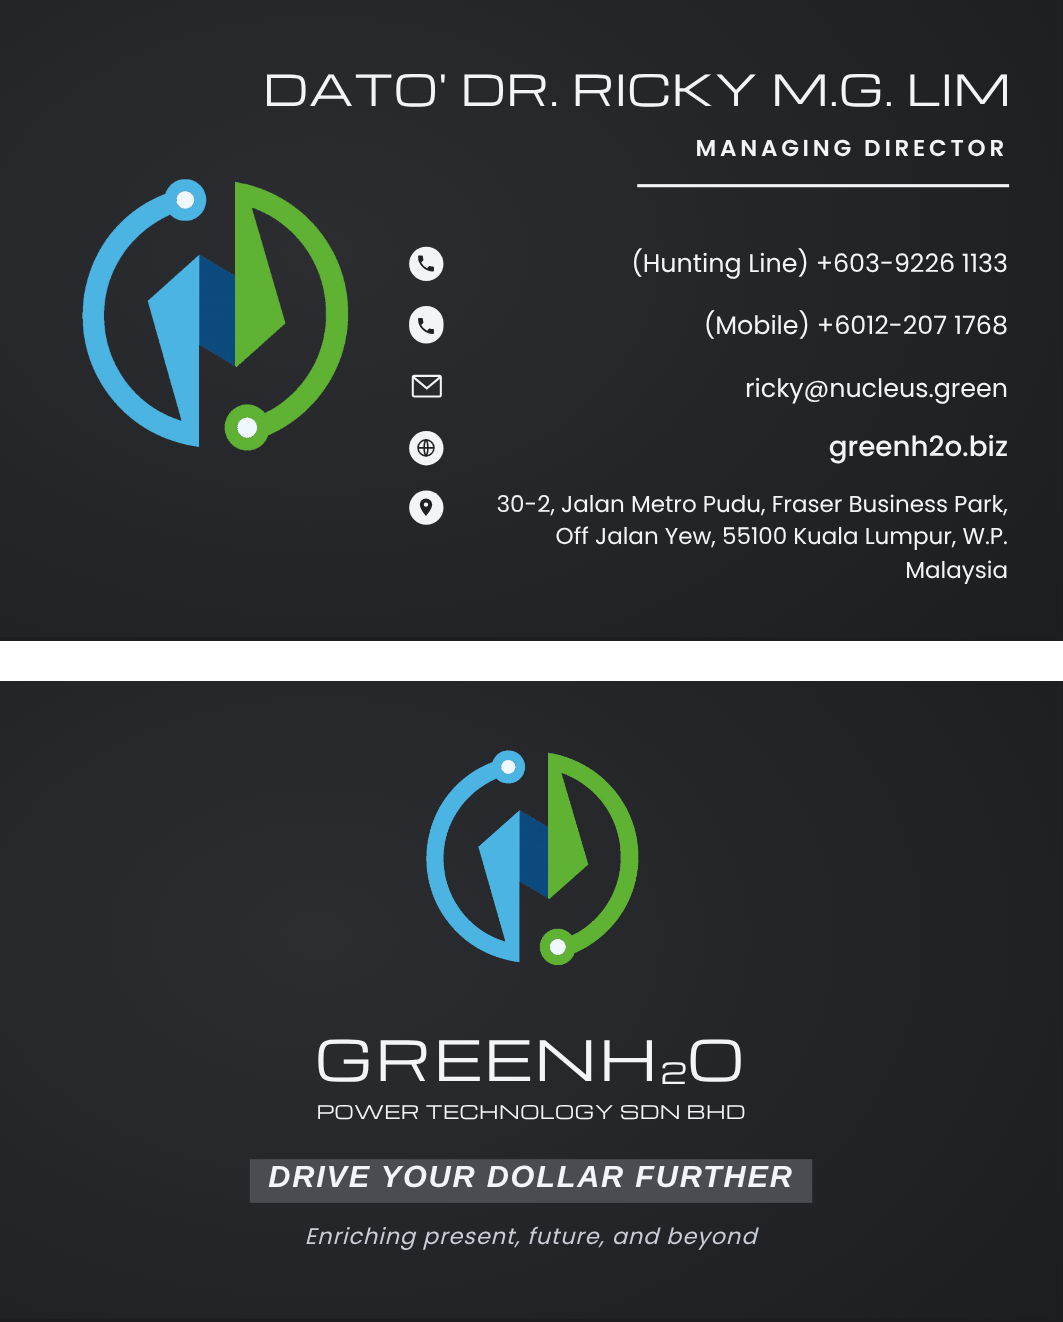
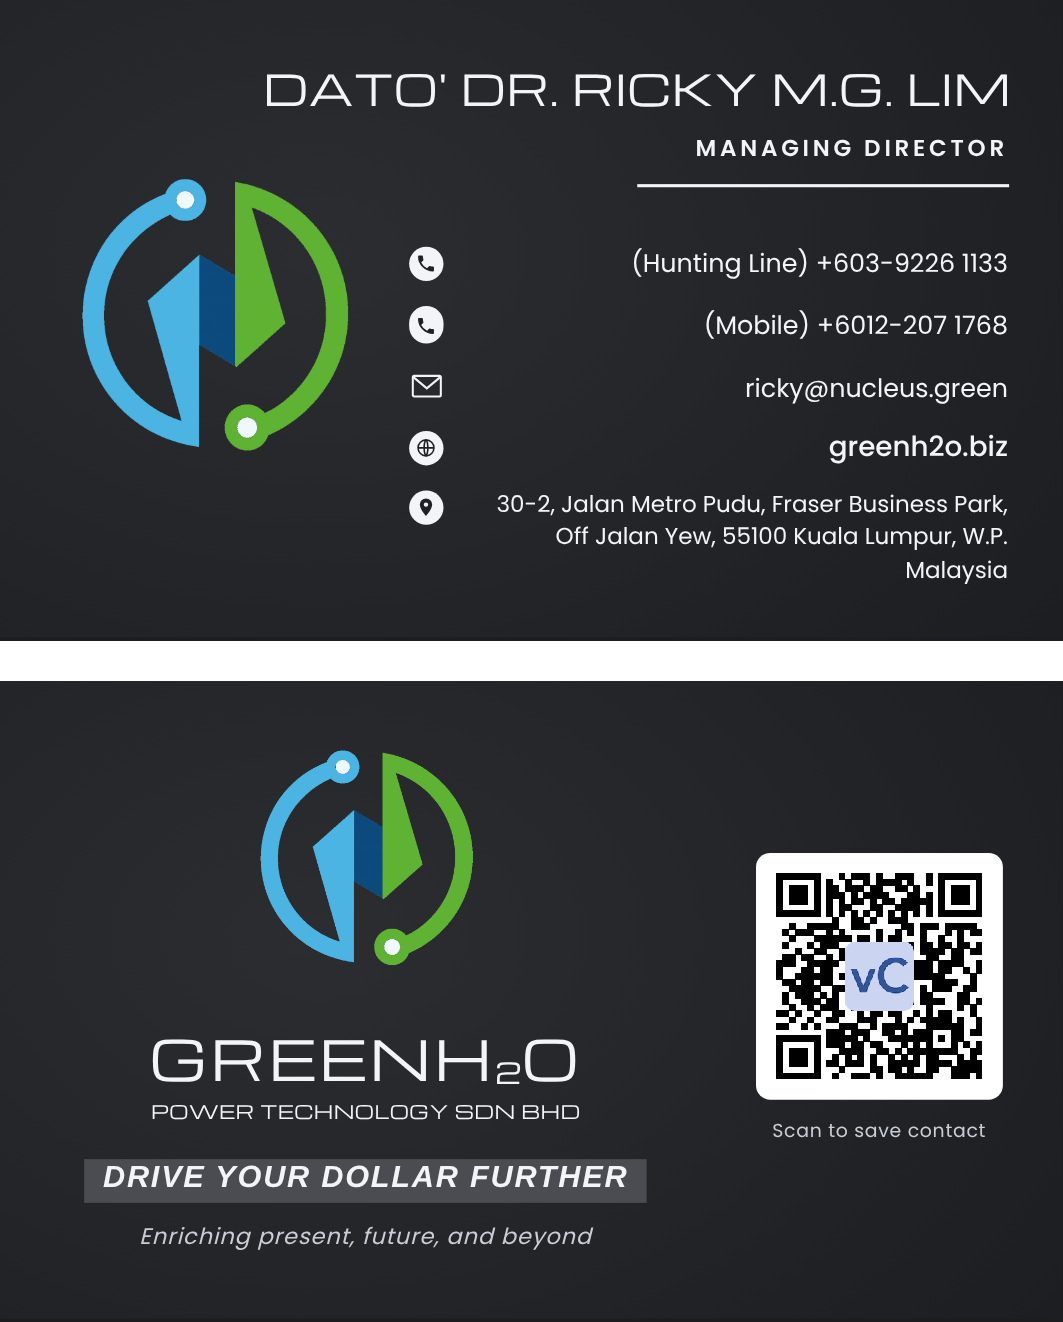
Ricky's card: add vCard QR to back, shift content left
Claude-Session: https://claude.ai/code/session_01J8VhJZJX27hmnaajm3CCtV

Changed region(s): [[0.0621, 0.6203, 0.9624, 0.9614], [0.2484, 0.5582, 0.6209, 0.7443]]

diff --git a/business-card/card.html b/business-card/card.html
@@ -70,6 +70,19 @@
     font-family: 'Poppins', sans-serif; font-style: italic; font-size: 1.9mm; letter-spacing: .08mm;
     color: #c9ced6;
   }
+
+  /* Back with QR: content column shifts left, QR on the right */
+  .back.with-qr .logo { left: 31mm; }
+  .back.with-qr .stack { right: 28mm; }
+  .back.with-qr .qr {
+    position: absolute; right: 5mm; top: 14.3mm; width: 21mm; height: 21mm;
+    background: #fff; border-radius: 1.2mm; padding: 1.1mm;
+  }
+  .back.with-qr .qr img { display: block; width: 100%; height: 100%; image-rendering: pixelated; }
+  .back.with-qr .qr-cap {
+    position: absolute; right: 5mm; top: 37mm; width: 21mm; text-align: center;
+    font-family: 'Poppins', sans-serif; font-size: 1.6mm; letter-spacing: .06mm; color: #c9ced6;
+  }
 </style>
 </head>
 <body>
@@ -106,8 +119,10 @@
 </section>
 
 <!-- BACK -->
-<section class="card back">
+<section class="card back with-qr">
   <img class="logo" src="logo-dark.png" alt="GreenH2O logo">
+  <div class="qr"><img src="qr-ricky-vcard.png" alt="vCard QR code"></div>
+  <div class="qr-cap">Scan to save contact</div>
   <div class="stack">
   <div class="lockup">
     <div class="brand">GREENH<sub>2</sub>O</div>
